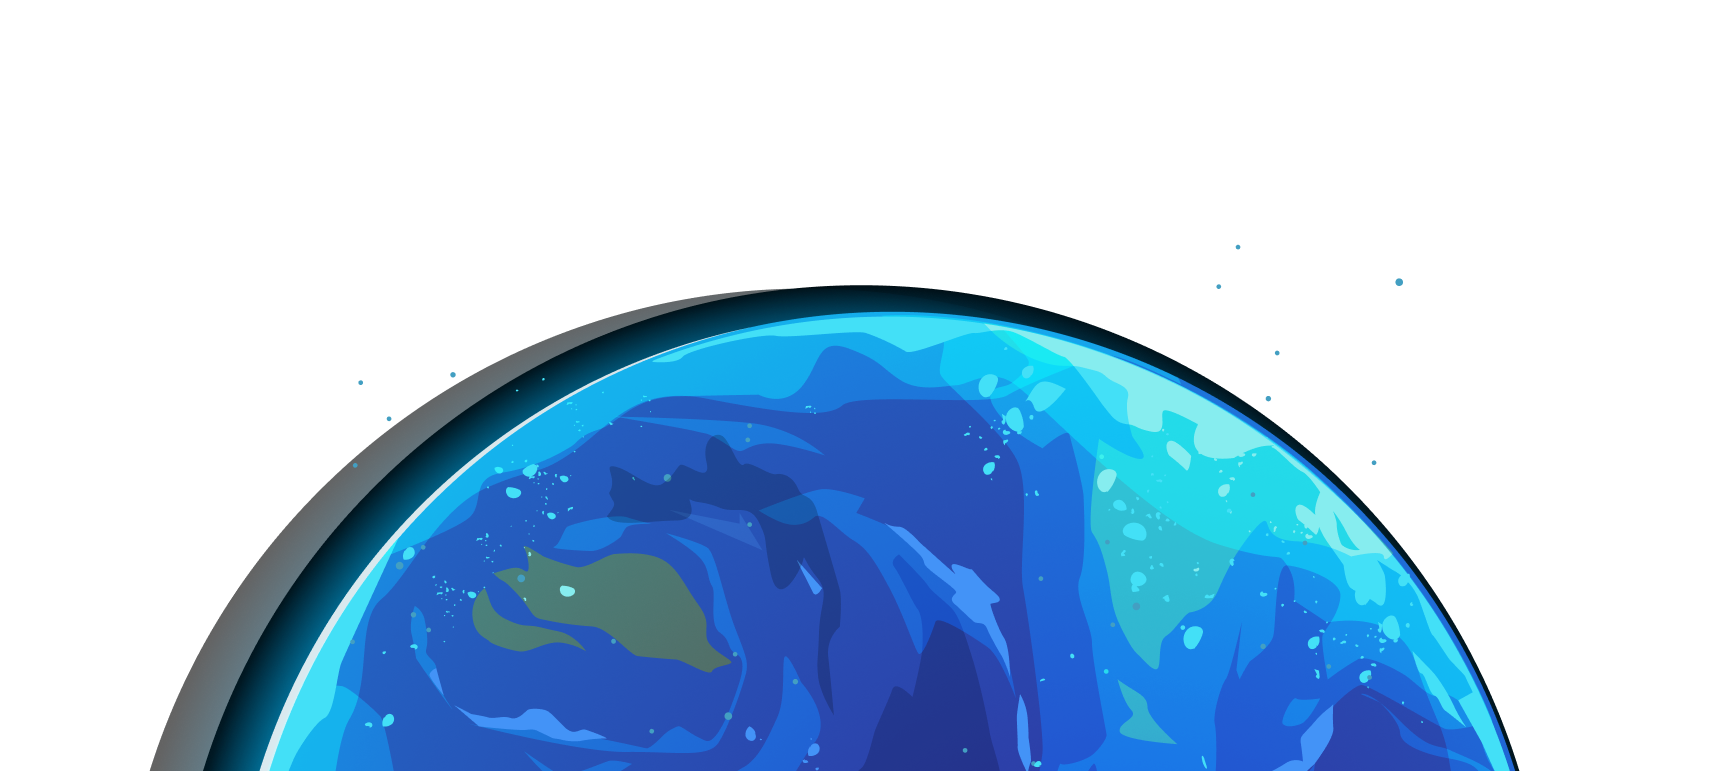
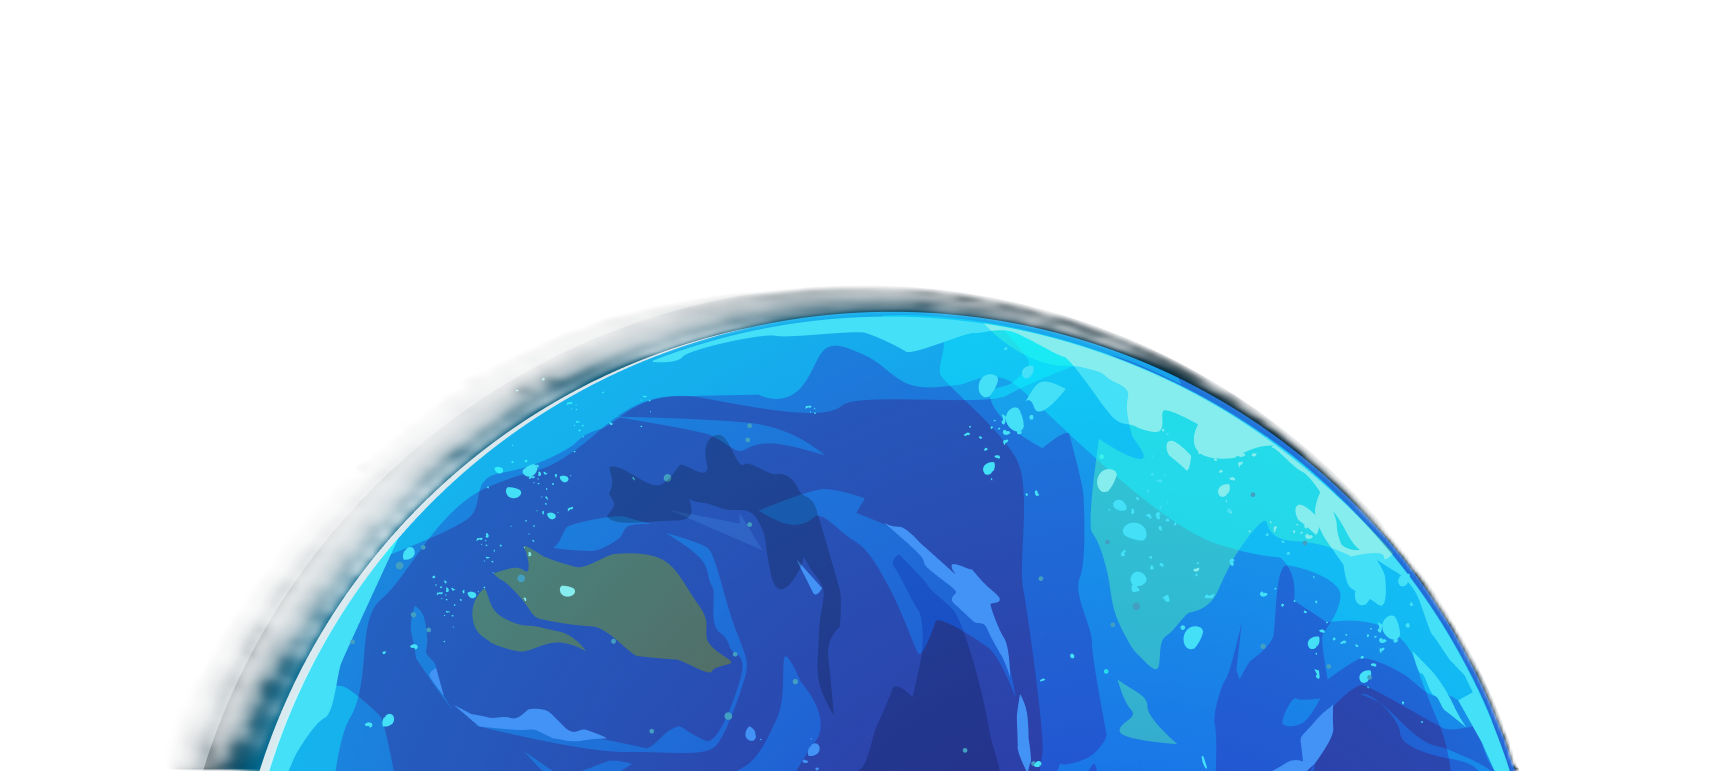
feat: add leetCode on home Page

diff --git a/src/Components/Social.jsx b/src/Components/Social.jsx
@@ -1,6 +1,7 @@
 import github from "../assets/img/github.svg";
 import instagram from "../assets/img/instagram.svg";
 import linkedin from "../assets/img/linkedin.svg";
+import leetCode from "../assets/img/leetCodeIcon.png";
 import { motion } from "framer-motion";
 
 const containerVariants = {
@@ -44,6 +45,16 @@ const Social = () => {
         <img src={github} />
       </motion.a>
       <motion.a
+        className="w-7 h-7 sm:w-8 sm:h-8 md:w-9 md:h-9"
+        href="https://leetcode.com/u/joydeep279/"
+        target="blank"
+        variants={iconVariants}
+        whileHover={{ scale: 1.3, filter: "drop-shadow(0 0 12px rgba(206, 183, 255, 0.8))" }}
+        whileTap={{ scale: 0.9 }}
+      >
+        <img src={leetCode} />
+      </motion.a>
+      <motion.a
         className="w-6 h-6 sm:w-7 sm:h-7 md:w-8 md:h-8"
         href=""
         variants={iconVariants}
@@ -62,6 +73,7 @@ const Social = () => {
       >
         <img src={linkedin} />
       </motion.a>
+
     </motion.div>
   );
 };

diff --git a/src/Components/ProjectGlobe.jsx b/src/Components/ProjectGlobe.jsx
@@ -48,7 +48,10 @@ const ProjectGlobe = () => {
 
             {/* Project title with animated entrance */}
             <AnimatePresence mode="wait">
-                <motion.h1
+                <motion.a
+                    href={project.demoUrl}
+                    target="_blank"
+                    rel="noopener noreferrer"
                     key={project.name}
                     className="text-2xl sm:text-4xl md:text-5xl text-glow text-white font-bebas-neue font-medium absolute bottom-[80%] z-50 tracking-wider"
                     initial={{ opacity: 0, y: -20, filter: "blur(8px)" }}
@@ -60,7 +63,7 @@ const ProjectGlobe = () => {
                     }}
                 >
                     {project.name}
-                </motion.h1>
+                </motion.a>
             </AnimatePresence>
 
             {/* Left arrow */}

diff --git a/src/Components/Project.jsx b/src/Components/Project.jsx
@@ -91,15 +91,6 @@ const ProjectComponent = () => {
                 {/* Title with enhanced glow */}
                 <motion.h1
                     className="font-outline font-out text-lg sm:text-2xl md:text-[42px] font-black tracking-[0.15em] sm:tracking-[0.2em]"
-                    variants={itemVars}
-                    style={{
-                        textShadow: "0 0 25px rgba(206, 183, 255, 0.5), 0 0 50px rgba(206, 183, 255, 0.2)",
-                    }}
-                    whileHover={{
-                        textShadow: "0 0 35px rgba(206, 183, 255, 0.8), 0 0 70px rgba(206, 183, 255, 0.4)",
-                        letterSpacing: "0.3em",
-                        transition: { duration: 0.4 },
-                    }}
                 >
                     PROJECTS
                 </motion.h1>

diff --git a/src/utils/contants.js b/src/utils/contants.js
@@ -5,8 +5,8 @@ export const skillSet = [
   "JavaScript",
   "React",
   "Tailwind",
-  "Html",
-  "Css",
+  "JWT",
+  "AuthO",
   "JavaScript",
   "React",
   "Css",
